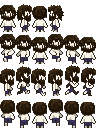
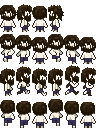
the character sheet is an edited version of eris esra's character template, available at https://erisesra.itch.io/character-templates-pack. implemented, character movement and an animation system based on the direction of a characters' movement.

Changed region(s): [[0.25, 0.5312, 0.5, 0.75], [0.75, 0.5625, 0.8125, 0.5938]]

diff --git a/code/player.py b/code/player.py
@@ -3,6 +3,7 @@
 import pygame
 
 from code.entity import Entity
+from const import SPRITE_POS_W, SPRITE_POS_H, SPRITE_SCALE
 
 
 class Player(Entity):
@@ -11,23 +12,95 @@ class Player(Entity):
         self.health = 100
         self.speed = 4
         self.damage = 10
+        character = pygame.image.load("asset/character.png").convert_alpha()
+        self.direction = "down"
+        self.frame = 0
+        self.animation_timer = 0
+        self.moving = False
+        self.animations = {
+            "idle": [
+                self.get_sprite(character, 0, 0)
+            ],
+            "down": [
+                self.get_sprite(character, 2, 1),
+                self.get_sprite(character, 3, 1),
+                self.get_sprite(character, 4, 1),
+                self.get_sprite(character, 5, 1),
+                self.get_sprite(character, 0, 1),
+                self.get_sprite(character, 1, 1)
+            ],
+            "right": [
+                self.get_sprite(character, 0, 2),
+                self.get_sprite(character, 1, 2),
+                self.get_sprite(character, 2, 2),
+                self.get_sprite(character, 3, 2),
+                self.get_sprite(character, 4, 2),
+                self.get_sprite(character, 5, 2)
+            ],
+            "up": [
+                self.get_sprite(character, 2, 3),
+                self.get_sprite(character, 3, 3),
+                self.get_sprite(character, 4, 3),
+                self.get_sprite(character, 5, 3),
+                self.get_sprite(character, 0, 3),
+                self.get_sprite(character, 1, 3)
+            ]
+        }
+        self.animations["left"] = [
+            pygame.transform.flip(frame, True, False)
+            for frame in self.animations["right"]
+        ]
+        self.rect.width = SPRITE_POS_W * SPRITE_SCALE
+        self.rect.height = SPRITE_POS_H * SPRITE_SCALE
 
     def update(self, ):
         self.move()
+        self.animate()
+
+    def animate(self):
+        if self.moving:
+            self.animation_timer += 1
+            if self.animation_timer > 10:
+                self.animation_timer = 0
+                self.frame += 1
+                if self.frame >= len(self.animations[self.direction]):
+                    self.frame = 0
+        else:
+            self.frame = 0
 
     def move(self):
         keys = pygame.key.get_pressed()
+        self.moving = False
         if keys[pygame.K_w]:
             self.rect.y -= self.speed
+            self.direction = "up"
+            self.moving = True
         if keys[pygame.K_s]:
             self.rect.y += self.speed
+            self.direction = "down"
+            self.moving = True
         if keys[pygame.K_a]:
             self.rect.x -= self.speed
+            self.direction = "left"
+            self.moving = True
         if keys[pygame.K_d]:
             self.rect.x += self.speed
+            self.direction = "right"
+            self.moving = True
 
     def attack(self, ):
         pass
 
     def takeDamage(self, ):
         pass
+
+    def get_sprite(self, sheet, col, row):
+        rect = pygame.Rect(col * SPRITE_POS_W, row * SPRITE_POS_H, SPRITE_POS_W, SPRITE_POS_H)
+        playersprite = pygame.Surface((SPRITE_POS_W, SPRITE_POS_H), pygame.SRCALPHA)
+        playersprite.blit(sheet, (0, 0), rect)
+        playersprite = pygame.transform.scale(playersprite,(SPRITE_POS_W * SPRITE_SCALE, SPRITE_POS_H * SPRITE_SCALE))
+        return playersprite
+
+    def draw(self, window, camera_y):
+        sprite = self.animations[self.direction][self.frame]
+        window.blit(sprite, (self.rect.x, self.rect.y - camera_y))

diff --git a/code/game.py b/code/game.py
@@ -2,7 +2,9 @@
 # -*- coding: utf-8 -*-
 import pygame
 
+from code import player
 from code.menu import Menu
+from code.player import Player
 from const import WIN_WIDTH, WIN_HEIGHT, STATE_MENU, STATE_GAME, STATE_FISHING
 
 
@@ -15,6 +17,7 @@ class Game:
         self.camera_y = 0
         self.target_camera_y = 0
         self.menu = Menu(self.window)
+        self.player = Player(None, (480, 720))
         #self.level = None
         #self.fishing = None
         self.fps = pygame.time.Clock()
@@ -36,10 +39,15 @@ class Game:
     def update(self):
         self.moveCamera()
 
+        if self.state == STATE_GAME:
+            self.player.update()
+
     def draw(self):
         self.window.blit(self.background, (0, -self.camera_y))
         if self.state == STATE_MENU:
             self.menu.draw()
+        if self.state == STATE_GAME:
+            self.player.draw(self.window, self.camera_y)
         pygame.display.flip()
 
     def changeState(self, new_state):

diff --git a/code/entity.py b/code/entity.py
@@ -1,11 +1,16 @@
 #!/usr/bin/python
 # -*- coding: utf-8 -*-
+import pygame
+
 
 class Entity:
     def __init__(self, name, sprite, pos):
         self.name = name
         self.sprite = sprite
-        self.rect = self.sprite.get_rect(center=pos)
+        if sprite:
+            self.rect = sprite.get_rect(center=pos)
+        else:
+            self.rect = pygame.Rect(pos[0], pos[1], 32, 32)
 
     def update(self, ):
         pass

diff --git a/const.py b/const.py
@@ -3,3 +3,6 @@ WIN_HEIGHT = 540
 STATE_MENU = "MENU"
 STATE_GAME = "GAME"
 STATE_FISHING = "FISHING"
+SPRITE_POS_W = 16
+SPRITE_POS_H= 32
+SPRITE_SCALE = 4
